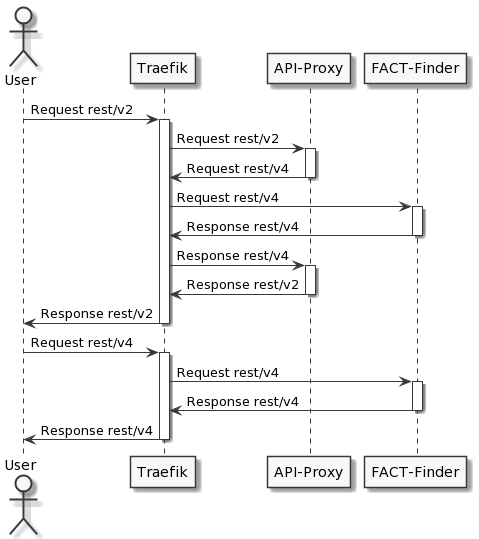
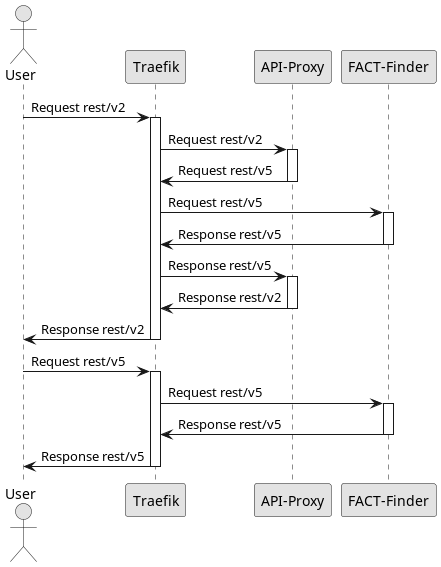
Update used docker images and README

diff --git a/README.md b/README.md
@@ -149,7 +149,7 @@ translated request and sends it to the FACT-Finder afterwards. It works the same
 ##### Request flow
 
 In this example setup, search requests will be routed as in the following diagram, depending on whether they belong to API version
-`v2`, `v3` or `v4`.  Note that `v2` and `v3` requests pass the load balancer twice.
+`v2`, `v3`, `v4` or `v5`.  Note that `v2`, `v3` and `v4` requests pass the load balancer twice.
 
 ![API-Proxy Diagram](images/api-proxy.png)
 
